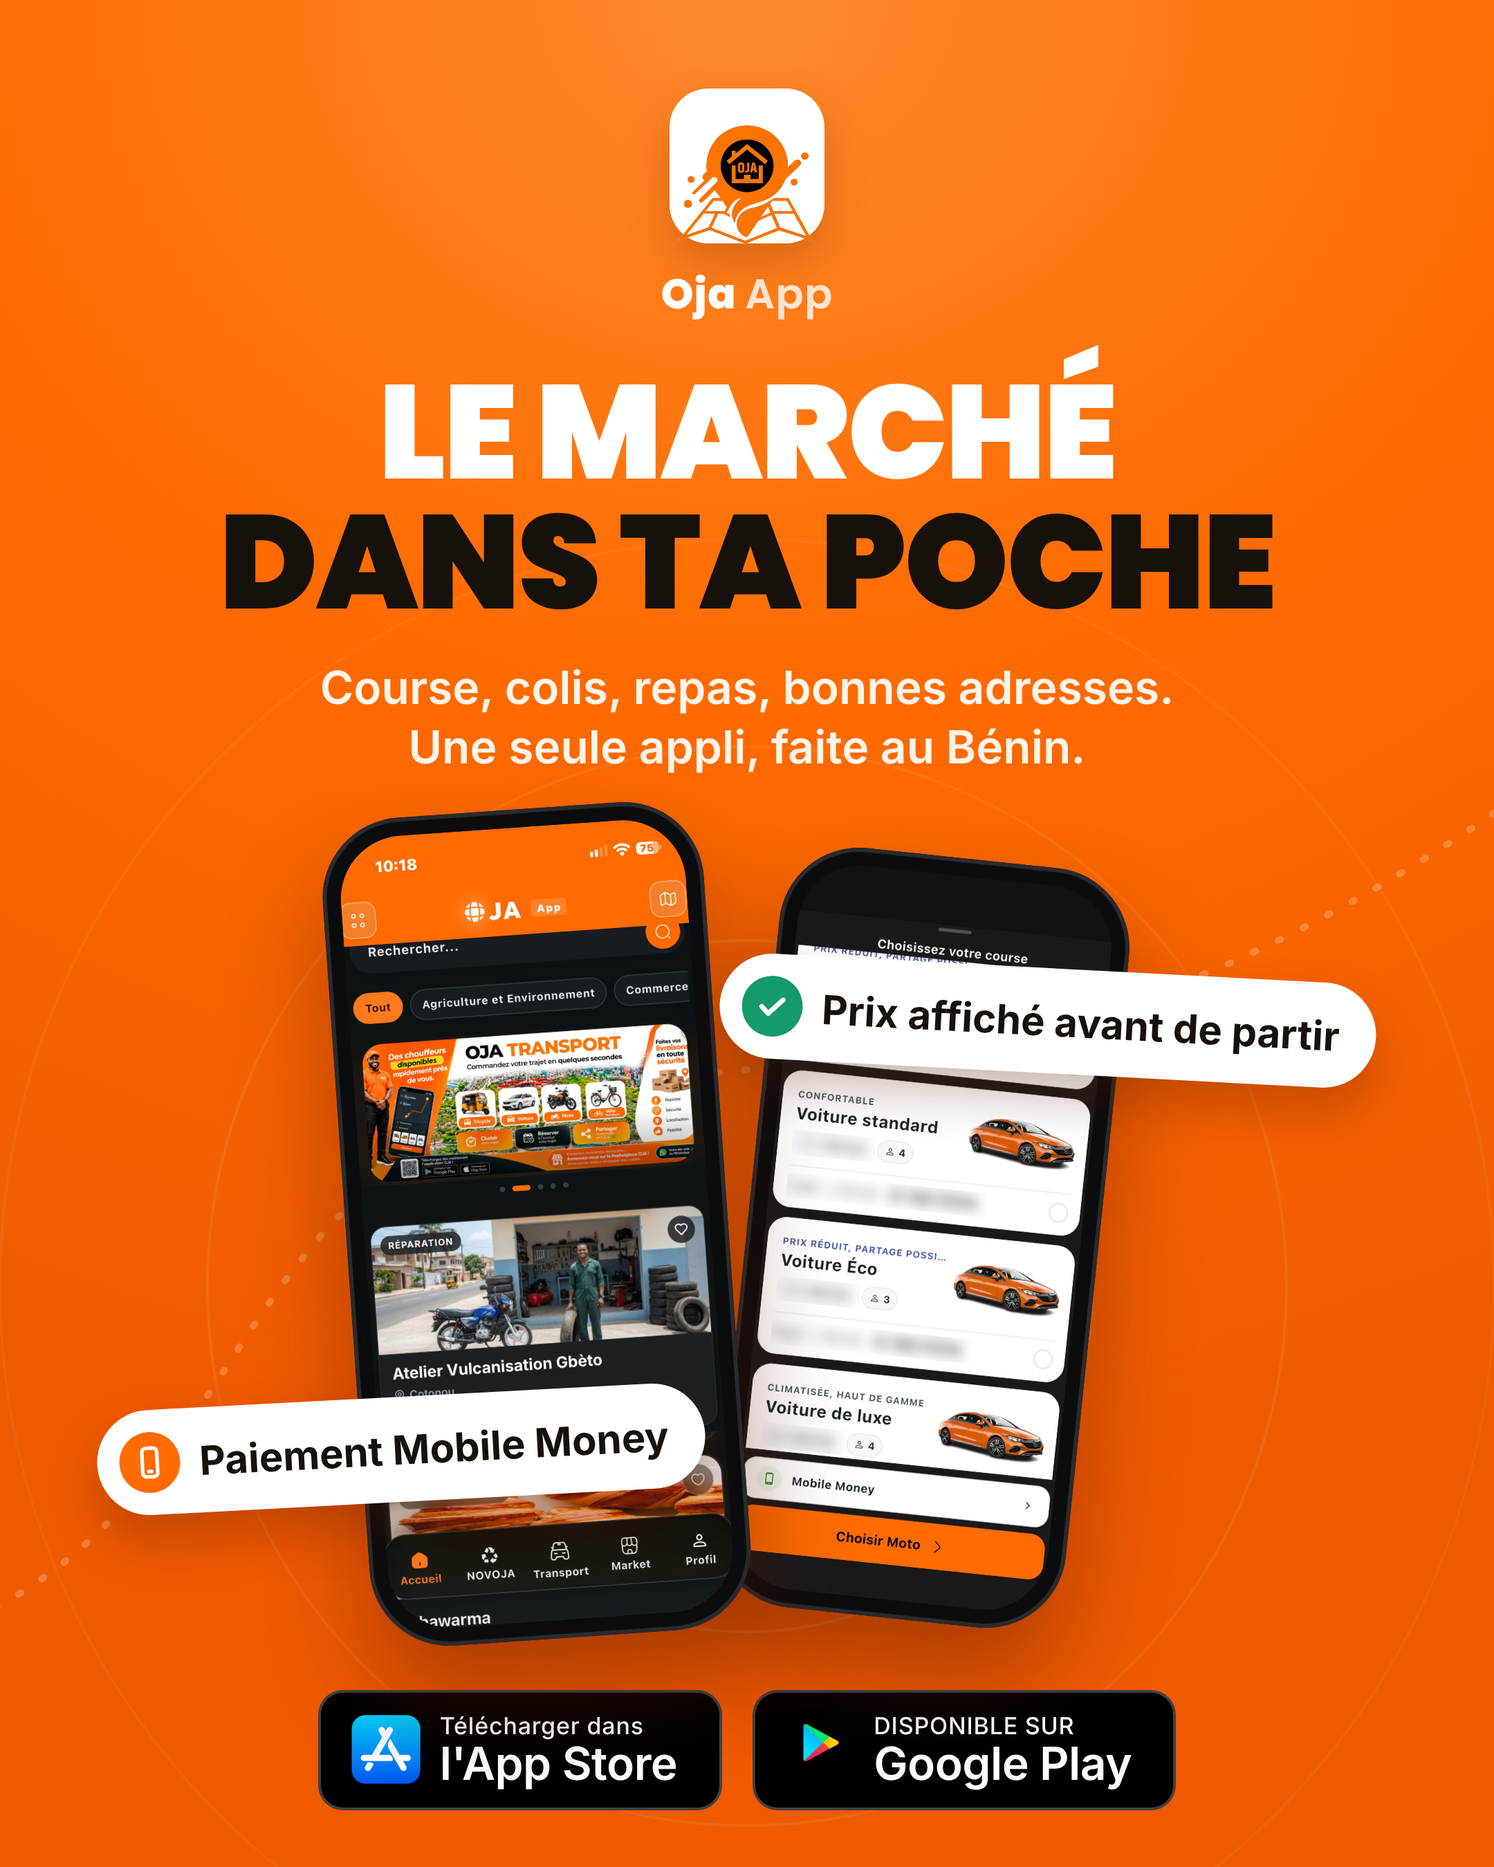
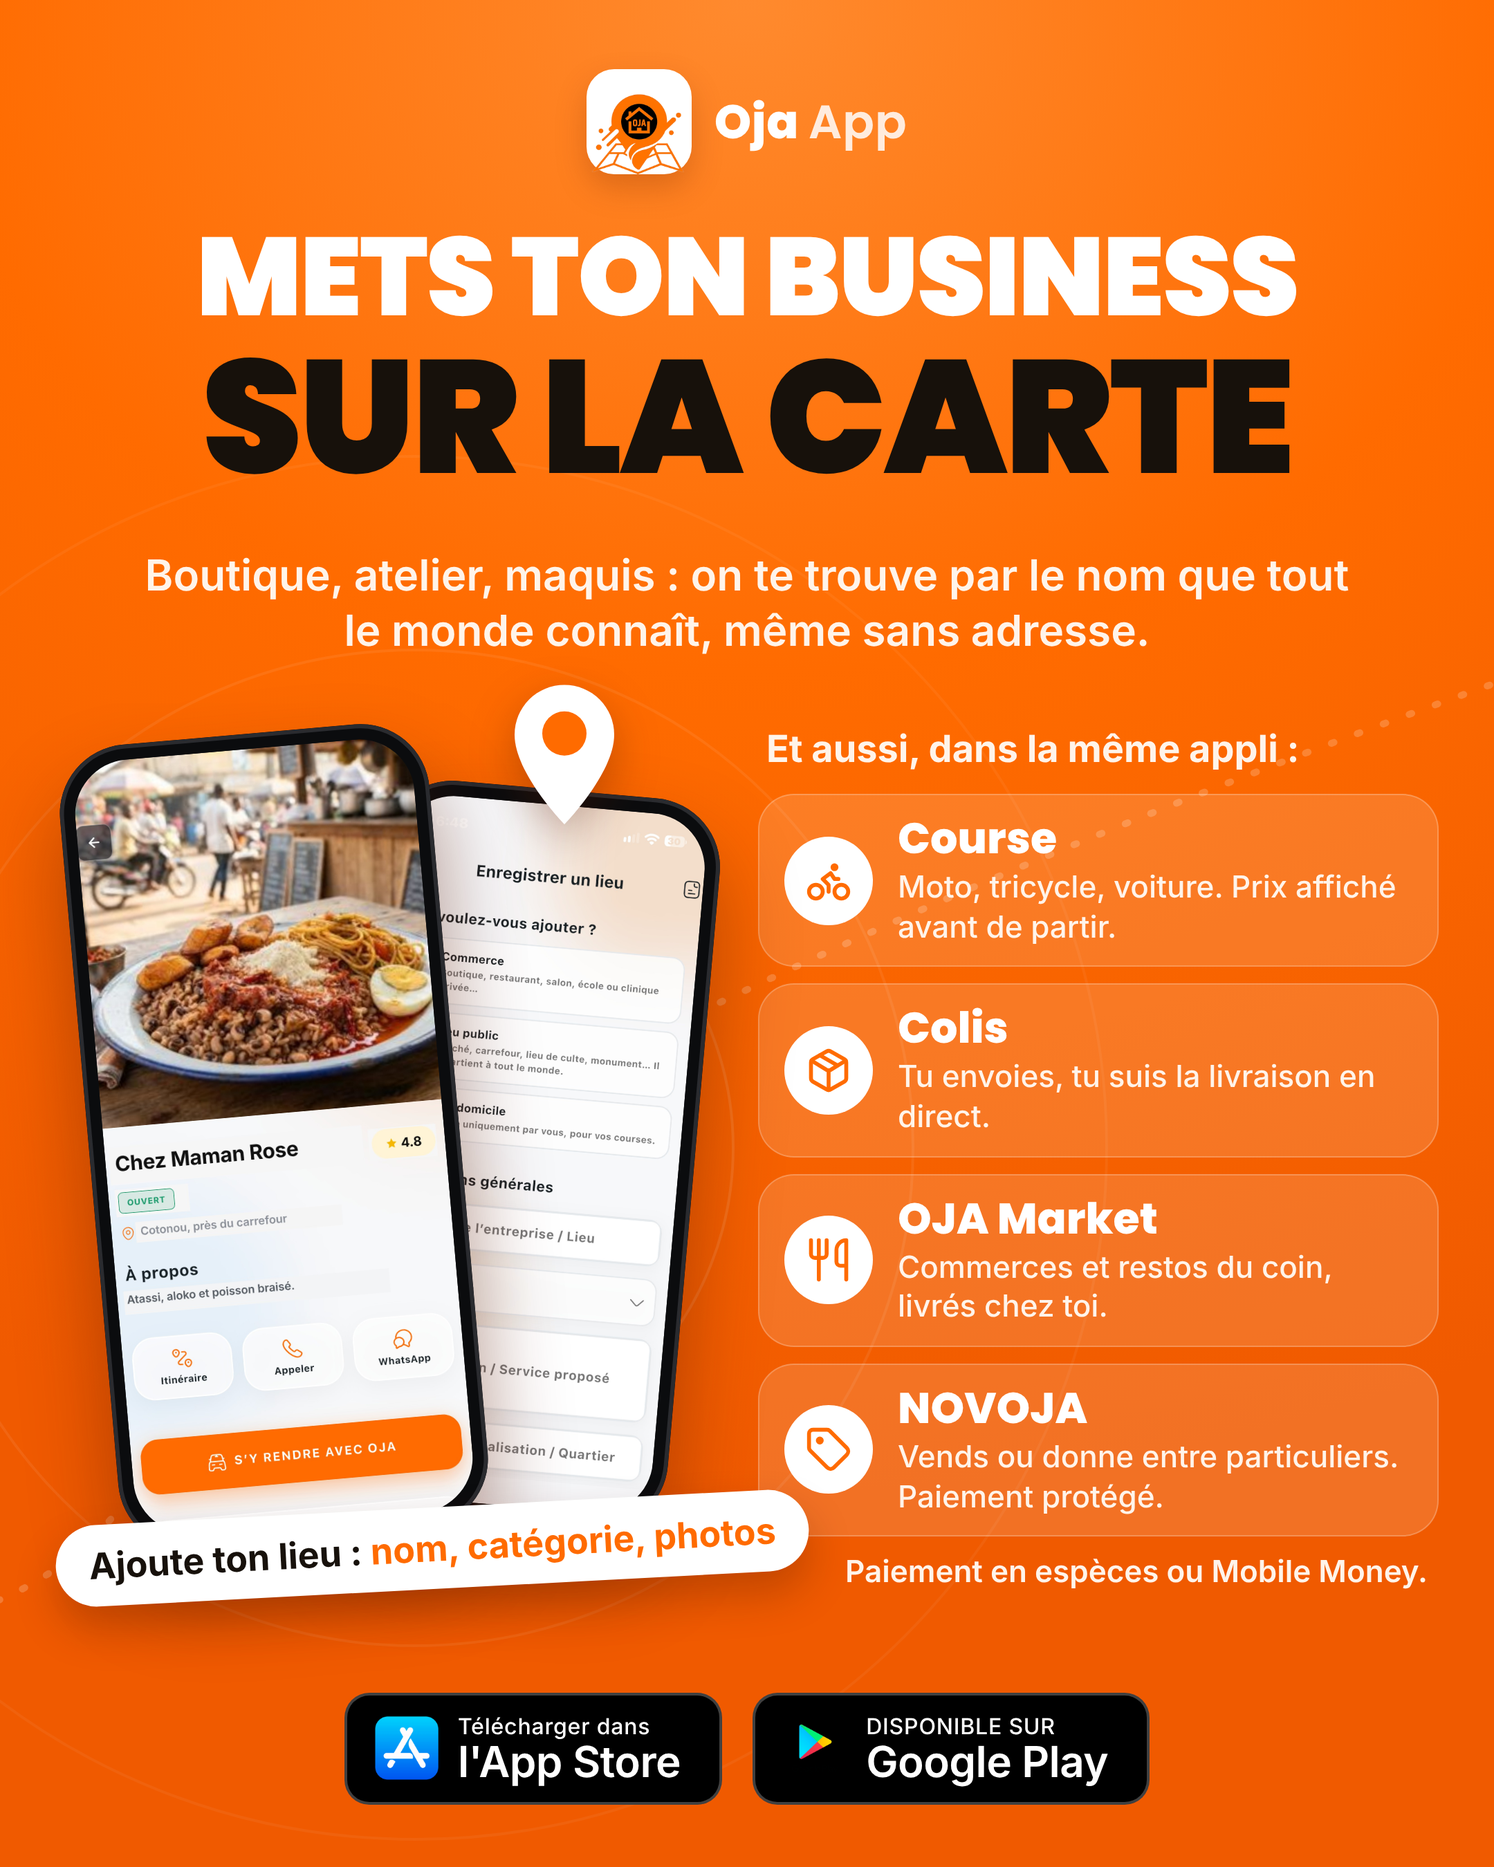
Pub Facebook : la carte en premier (« Mets ton business sur la carte »), puis course, colis, Market et NOVOJA ; consigne ajoutée au kit
Claude-Session: https://claude.ai/code/session_013hXBLf1amJ3CRzgYm5RBGS

diff --git a/motion/pub_facebook.html b/motion/pub_facebook.html
@@ -2,10 +2,13 @@
 <html lang="fr"><head><meta charset="utf-8"><title>OJA — pub Facebook</title>
 <link rel="stylesheet" href="fonts/local.css">
 <style>
-/* Facebook / Instagram ad for Oja App (9 Nov 2026), after the « Griokids » ad Derrick sent: flat brand colour, logo, one big line,
-   the app on real phones, store badges. Made as a real layout, not a generated picture: real logo, real screens of the app
-   (assets/frm/: amounts blurred, test listing replaced by a fictitious one), real type.
-   #feed = 1080 x 1350 (4:5, news feed), #story = 1080 x 1920 (9:16, stories and reels). Built by src/pub_facebook_build.js. */
+/* Facebook / Instagram ad for Oja App, after the « Griokids » ad Derrick sent: flat brand colour, logo, one big line,
+   the app on real phones, store badges. A real layout, not a generated picture: real logo, real screens, real type.
+   9 Nov 2026, Derrick: every feature must be understood, and putting yourself on the map always comes FIRST
+   (also in marketing/kit/09-regles-et-mentions.md). So: the map is the headline and the phones
+   (« Enregistrer un lieu » and a place card, « Chez Maman Rose », fictitious), then the four other services in a list.
+   #feed = 1080 x 1350 (4:5, news feed), #story = 1080 x 1920 (9:16: the same block, below the top 250 px, above the bottom 340 px).
+   Built by src/pub_facebook_build.js. */
 :root { --or: #FF6B00; --or2: #F05A00; --ink: #17110B; --cream: #FFF4EA; }
 * { box-sizing: border-box; margin: 0; padding: 0; }
 html, body { width: 1080px; overflow: hidden; background: var(--or); }
@@ -13,78 +16,77 @@ body { font-family: 'Inter', sans-serif; color: #fff; }
 .ad { position: relative; width: 1080px; height: 1350px; overflow: hidden;
   background: radial-gradient(120% 80% at 50% 0%, #FF8A2E 0%, var(--or) 45%, var(--or2) 100%); }
 body.story .ad { height: 1920px; }
-/* the map behind: rings around a pin and a dotted route, very light */
-svg.bg { position: absolute; inset: 0; width: 100%; height: 100%; }
-.top { position: absolute; left: 0; right: 0; top: 64px; display: flex; flex-direction: column; align-items: center; }
-.icon { width: 112px; height: 112px; border-radius: 28px; background: #fff; display: grid; place-items: center;
-  box-shadow: 0 14px 30px rgba(120, 40, 0, .28); }
+.block { position: absolute; left: 0; top: 10px; width: 1080px; height: 1330px; }
+body.story .block { top: 250px; }
+svg.bg { position: absolute; left: 0; top: 0; width: 1080px; height: 1330px; }
+/* header */
+.brand { position: absolute; top: 40px; left: 0; right: 0; display: flex; justify-content: center; align-items: center; gap: 16px; }
+.icon { width: 76px; height: 76px; border-radius: 20px; background: #fff; display: grid; place-items: center; box-shadow: 0 10px 22px rgba(120, 40, 0, .25); }
 .icon img { width: 118%; height: 118%; object-fit: contain; margin-top: 6%; }
-.name { margin-top: 14px; font: 800 30px 'Poppins'; letter-spacing: .5px; }
-.name span { opacity: .8; font-weight: 600; }
-h1 { margin-top: 30px; text-align: center; font: 900 96px/0.98 'Poppins'; letter-spacing: -1.5px; text-transform: uppercase; }
-h1 .dark { color: var(--ink); display: block; }
-.sub { margin-top: 22px; text-align: center; font: 600 33px/1.3 'Inter'; color: var(--cream); }
-.phones { position: absolute; left: 0; right: 0; }
-.phone { position: absolute; border-radius: 58px; background: #0B0C0E; padding: 13px;
-  box-shadow: 0 40px 70px rgba(90, 25, 0, .45), 0 0 0 3px #2A2B2F inset; }
-.phone img { display: block; width: 100%; height: 100%; object-fit: cover; object-position: top; border-radius: 46px; }
-.chip { position: absolute; display: flex; align-items: center; gap: 14px; background: #fff; color: var(--ink);
-  border-radius: 999px; padding: 16px 26px 16px 16px; font: 700 29px 'Inter'; white-space: nowrap;
-  box-shadow: 0 18px 34px rgba(90, 25, 0, .3); }
-.chip i { width: 44px; height: 44px; border-radius: 50%; display: grid; place-items: center; background: #159A69; flex: none; }
-.chip i.or { background: var(--or); }
-.chip svg { width: 26px; height: 26px; }
-.stores { position: absolute; left: 0; right: 0; display: flex; justify-content: center; gap: 22px; }
-.badge { display: flex; align-items: center; gap: 14px; background: #000; border-radius: 18px; padding: 14px 30px 14px 22px;
-  border: 2px solid rgba(255, 255, 255, .25); }
-.badge img { width: 50px; height: 50px; }
-.badge small { display: block; font: 500 17px 'Inter'; letter-spacing: .4px; }
-.badge b { display: block; font: 600 33px/1.05 'Inter'; letter-spacing: -.3px; }
-/* feed (4:5) */
-.phones { top: 585px; height: 620px; }
-.p1 { left: 250px; top: 0; width: 276px; height: 600px; transform: rotate(-4deg); z-index: 2; }
-.p2 { left: 540px; top: 34px; width: 254px; height: 552px; transform: rotate(6deg); z-index: 1; }
-.c1 { left: 520px; top: 700px; z-index: 3; transform: rotate(3deg); }
-.c2 { left: 70px; top: 1010px; z-index: 3; transform: rotate(-3deg); }
-.stores { top: 1222px; }
-/* story (9:16): same pieces, more air, everything inside the safe area (no text in the top 250 px or the bottom 340 px) */
-body.story .top { top: 250px; }
-body.story h1 { font-size: 104px; }
-body.story .phones { top: 805px; }
-body.story .p1 { left: 225px; width: 300px; height: 652px; }
-body.story .p2 { left: 540px; top: 40px; width: 276px; height: 600px; }
-body.story .c1 { left: 515px; top: 930px; }
-body.story .c2 { left: 60px; top: 1290px; }
-body.story .stores { top: 1488px; }
+.brand b { font: 800 34px 'Poppins'; letter-spacing: .3px; }
+.brand b span { font-weight: 600; opacity: .85; }
+h1 { position: absolute; top: 150px; left: 0; right: 0; text-align: center; font: 900 80px/1 'Poppins'; letter-spacing: -1.2px; text-transform: uppercase; }
+h1 .dark { display: block; color: var(--ink); font-size: 116px; letter-spacing: -2px; margin-top: 4px; }
+.sub { position: absolute; top: 386px; left: 90px; right: 90px; text-align: center; font: 600 31px/1.3 'Inter'; color: var(--cream); }
+/* the map feature: two phones and a pin */
+.phone { position: absolute; border-radius: 50px; background: #0B0C0E; padding: 11px; box-shadow: 0 34px 60px rgba(90, 25, 0, .45), 0 0 0 3px #2A2B2F inset; }
+.phone img { display: block; width: 100%; height: 100%; object-fit: cover; object-position: top; border-radius: 40px; }
+.p1 { left: 64px; top: 520px; width: 268px; height: 583px; transform: rotate(-5deg); z-index: 2; }
+.p2 { left: 258px; top: 560px; width: 244px; height: 530px; transform: rotate(5deg); z-index: 1; }
+.pin { position: absolute; left: 360px; top: 470px; width: 96px; z-index: 3; filter: drop-shadow(0 12px 16px rgba(90, 25, 0, .35)); }
+.tag { position: absolute; left: 40px; top: 1080px; z-index: 3; background: #fff; color: var(--ink); border-radius: 999px; padding: 14px 24px;
+  font: 700 26px 'Inter'; white-space: nowrap; transform: rotate(-3deg); box-shadow: 0 16px 30px rgba(90, 25, 0, .3); }
+.tag em { font-style: normal; color: var(--or); }
+/* the other services */
+.more { position: absolute; left: 548px; top: 515px; width: 492px; }
+.more h2 { font: 700 27px 'Inter'; color: var(--cream); margin: 0 0 16px 6px; }
+.svc { display: flex; align-items: center; gap: 18px; background: rgba(255, 255, 255, .14); border: 1.5px solid rgba(255, 255, 255, .22);
+  border-radius: 26px; padding: 14px 18px; margin-bottom: 12px; }
+.svc i { width: 64px; height: 64px; border-radius: 50%; background: #fff; display: grid; place-items: center; flex: none; }
+.svc svg { width: 34px; height: 34px; stroke: var(--or); fill: none; stroke-width: 2; stroke-linecap: round; stroke-linejoin: round; }
+.svc b { display: block; font: 800 31px/1.1 'Poppins'; }
+.svc span { display: block; margin-top: 4px; font: 500 22px/1.3 'Inter'; color: var(--cream); }
+.pay { margin: 4px 8px 0 0; text-align: right; font: 600 22px 'Inter'; color: var(--cream); }
+/* stores */
+.stores { position: absolute; left: 0; right: 0; top: 1214px; display: flex; justify-content: center; gap: 22px; }
+.badge { display: flex; align-items: center; gap: 14px; background: #000; border-radius: 18px; padding: 12px 28px 12px 20px; border: 2px solid rgba(255, 255, 255, .25); }
+.badge img { width: 46px; height: 46px; }
+.badge small { display: block; font: 500 16px 'Inter'; letter-spacing: .4px; }
+.badge b { display: block; font: 600 31px/1.05 'Inter'; letter-spacing: -.3px; }
 </style></head>
 <body>
-<div class="ad">
-  <svg class="bg" viewBox="0 0 1080 1350" preserveAspectRatio="xMidYMid slice" aria-hidden="true">
+<div class="ad"><div class="block">
+  <svg class="bg" viewBox="0 0 1080 1330" aria-hidden="true">
     <g fill="none" stroke="#fff">
-      <circle cx="540" cy="930" r="250" stroke-opacity=".10" stroke-width="2"/>
-      <circle cx="540" cy="930" r="390" stroke-opacity=".07" stroke-width="2"/>
-      <circle cx="540" cy="930" r="540" stroke-opacity=".05" stroke-width="2"/>
-      <path d="M-40 1180 C 180 1090, 160 860, 380 800 S 760 820, 1120 560" stroke-opacity=".22" stroke-width="5" stroke-dasharray="2 18" stroke-linecap="round"/>
+      <circle cx="300" cy="820" r="230" stroke-opacity=".10" stroke-width="2"/>
+      <circle cx="300" cy="820" r="360" stroke-opacity=".07" stroke-width="2"/>
+      <circle cx="300" cy="820" r="500" stroke-opacity=".05" stroke-width="2"/>
+      <path d="M-40 1160 C 160 1110, 120 900, 300 820 S 640 640, 1120 470" stroke-opacity=".2" stroke-width="5" stroke-dasharray="2 18" stroke-linecap="round"/>
     </g>
   </svg>
-  <div class="top">
-    <div class="icon"><img src="../video1/assets/logo-oja-carte.png" alt=""></div>
-    <div class="name">Oja <span>App</span></div>
-    <h1>Le marché<span class="dark">dans ta poche</span></h1>
-    <p class="sub">Course, colis, repas, bonnes adresses.<br>Une seule appli, faite au Bénin.</p>
+  <div class="brand"><div class="icon"><img src="../video1/assets/logo-oja-carte.png" alt=""></div><b>Oja <span>App</span></b></div>
+  <h1>Mets ton business<span class="dark">sur la carte</span></h1>
+  <p class="sub">Boutique, atelier, maquis : on te trouve par le nom que tout le monde connaît, même sans adresse.</p>
+  <svg class="pin" viewBox="0 0 24 30"><path d="M12 29s-9-9.2-9-16.2A9 9 0 0 1 21 12.8C21 19.8 12 29 12 29z" fill="#fff"/><circle cx="12" cy="12.6" r="4" fill="#FF6B00"/></svg>
+  <div class="phone p2"><img src="../video3/assets/app/ajout.jpg" alt=""></div>
+  <div class="phone p1"><img src="../video3/assets/app/fiche.jpg" alt=""></div>
+  <div class="tag">Ajoute ton lieu : <em>nom, catégorie, photos</em></div>
+  <div class="more">
+    <h2>Et aussi, dans la même appli :</h2>
+    <div class="svc"><i><svg viewBox="0 0 24 24"><circle cx="5.5" cy="17.5" r="3.5"/><circle cx="18.5" cy="17.5" r="3.5"/><path d="M15 6a1 1 0 1 0 0-2 1 1 0 0 0 0 2zm-3 11.5V14l-3-3 4-3 2 3h2"/></svg></i>
+      <div><b>Course</b><span>Moto, tricycle, voiture. Prix affiché avant de partir.</span></div></div>
+    <div class="svc"><i><svg viewBox="0 0 24 24"><path d="M11 21.73a2 2 0 0 0 2 0l7-4A2 2 0 0 0 21 16V8a2 2 0 0 0-1-1.73l-7-4a2 2 0 0 0-2 0l-7 4A2 2 0 0 0 3 8v8a2 2 0 0 0 1 1.73z"/><path d="M12 22V12"/><path d="m3.3 7 7.703 4.734a2 2 0 0 0 1.994 0L20.7 7"/><path d="m7.5 4.27 9 5.15"/></svg></i>
+      <div><b>Colis</b><span>Tu envoies, tu suis la livraison en direct.</span></div></div>
+    <div class="svc"><i><svg viewBox="0 0 24 24"><path d="M3 2v7c0 1.1.9 2 2 2h4a2 2 0 0 0 2-2V2"/><path d="M7 2v20"/><path d="M21 15V2a5 5 0 0 0-5 5v6c0 1.1.9 2 2 2h3Zm0 0v7"/></svg></i>
+      <div><b>OJA Market</b><span>Commerces et restos du coin, livrés chez toi.</span></div></div>
+    <div class="svc"><i><svg viewBox="0 0 24 24"><path d="M12.586 2.586A2 2 0 0 0 11.172 2H4a2 2 0 0 0-2 2v7.172a2 2 0 0 0 .586 1.414l8.704 8.704a2.426 2.426 0 0 0 3.42 0l6.58-6.58a2.426 2.426 0 0 0 0-3.42z"/><circle cx="7.5" cy="7.5" r="1"/></svg></i>
+      <div><b>NOVOJA</b><span>Vends ou donne entre particuliers. Paiement protégé.</span></div></div>
+    <p class="pay">Paiement en espèces ou Mobile Money.</p>
   </div>
-  <div class="phones">
-    <div class="phone p2"><img src="assets/frm/course_m.jpg" alt=""></div>
-    <div class="phone p1"><img src="assets/frm/accueil_m.jpg" alt=""></div>
-  </div>
-  <div class="chip c1"><i><svg viewBox="0 0 24 24" fill="none" stroke="#fff" stroke-width="3.2" stroke-linecap="round" stroke-linejoin="round"><path d="M5 12.5l4.5 4.5L19 7.5"/></svg></i>Prix affiché avant de partir</div>
-  <div class="chip c2"><i class="or"><svg viewBox="0 0 24 24" fill="none" stroke="#fff" stroke-width="2.4" stroke-linecap="round" stroke-linejoin="round"><rect x="7" y="2.5" width="10" height="19" rx="2.5"/><path d="M11 18h2"/></svg></i>Paiement Mobile Money</div>
   <div class="stores">
     <div class="badge"><img src="../video1/assets/store-app-store.png" alt=""><div><small>Télécharger dans</small><b>l'App Store</b></div></div>
     <div class="badge"><img src="../video1/assets/store-google-play.png" alt=""><div><small>DISPONIBLE SUR</small><b>Google Play</b></div></div>
   </div>
-</div>
-<script>
-if (location.hash === '#story') { document.body.classList.add('story'); document.querySelector('svg.bg').setAttribute('viewBox', '0 -150 1080 1920'); }
-</script>
+</div></div>
+<script>if (location.hash === '#story') document.body.classList.add('story');</script>
 </body></html>

diff --git a/motion/README.md b/motion/README.md
@@ -1089,26 +1089,33 @@ La musique est un groove afro-house à 104 BPM, avec un tic-tac au début et des
 
 **Rendu :** `src/journee_collage_render.sh` (depuis `motion/`) produit les deux versions.
 
-## OJA — Pub Facebook / Instagram « Le marché dans ta poche » (image)
+## OJA — Pub Facebook / Instagram « Mets ton business sur la carte » (image)
 
 Image publicitaire pour lancer Oja App sur Facebook et Instagram. Elle s'inspire de la pub « Griokids » envoyée par Derrick : couleur de marque en aplat, logo, une grande phrase, l'appli sur de vrais téléphones et les logos des stores.
 
-C'est une vraie mise en page, pas une image générée par IA :
-- le vrai logo ;
-- de vrais écrans de l'appli : `assets/frm/accueil_m.jpg` (fiche fictive) et `assets/frm/course_m.jpg` (prix et durées floutés) ;
-- en fond, les cercles d'une épingle et une route en pointillés, très légers.
+C'est une vraie mise en page, pas une image générée par IA : vrai logo, vrais écrans de l'appli, vraie typographie.
 
-**Textes :**
-- « Le marché dans ta poche » ;
-- « Course, colis, repas, bonnes adresses. Une seule appli, faite au Bénin. » ;
-- deux pastilles : « Prix affiché avant de partir » et « Paiement Mobile Money » ;
-- les logos de l'App Store et de Google Play.
+Consigne de Derrick (9 novembre 2026) : on doit comprendre toutes les fonctions, et **se mettre sur la carte passe toujours en premier**.
 
-Aucun montant, aucun concurrent, pas de « gratuit ».
+**Contenu de l'image :**
+- **En premier, la carte :**
+  - le titre « Mets ton business sur la carte » ;
+  - la phrase « Boutique, atelier, maquis : on te trouve par le nom que tout le monde connaît, même sans adresse. » ;
+  - deux téléphones : la fiche d'un lieu fictif (« Chez Maman Rose », `video3/assets/app/fiche.jpg`) et l'écran « Enregistrer un lieu » (`ajout.jpg`) ;
+  - une épingle et la pastille « Ajoute ton lieu : nom, catégorie, photos ».
+- **Puis, sous « Et aussi, dans la même appli » :**
+  - Course : moto, tricycle, voiture, prix affiché avant de partir ;
+  - Colis : suivi en direct ;
+  - OJA Market : commerces et restos livrés ;
+  - NOVOJA : vendre ou donner, paiement protégé ;
+  - « Paiement en espèces ou Mobile Money ».
+- **En bas,** les logos de l'App Store et de Google Play.
+
+Aucun montant, aucun concurrent, pas de « gratuit ». « C'est mon commerce » (revendiquer sa fiche) n'est pas montré : cette fonction n'est pas encore sortie.
 
 **Fichiers :** `node src/pub_facebook_build.js` (depuis `motion/`) produit, dans `pubs/` :
 - `OJA_Pub_Facebook_1080x1350.png` : fil d'actualité, 4:5 ;
-- `OJA_Pub_Facebook_1080x1920.png` : stories et reels, 9:16. Rien d'écrit dans les 250 px du haut ni les 340 px du bas ;
+- `OJA_Pub_Facebook_1080x1920.png` : stories et reels, 9:16. C'est le même bloc, sous les 250 px du haut et au-dessus des 340 px du bas ;
 - les mêmes en double définition : `_2160x2700.png` et `_2160x3840.png`.
 
 La page source est `pub_facebook.html` (`#feed` ou `#story`).

diff --git a/marketing/kit/09-regles-et-mentions.md b/marketing/kit/09-regles-et-mentions.md
@@ -45,6 +45,7 @@
 
 ## Fonction mise en avant en premier
 - **Mettre son entreprise sur la carte** : boutique, atelier, restaurant, petit business. Au Bénin, se faire trouver sans adresse précise est un casse-tête ; sur OJA, on ajoute son lieu (nom, catégorie, point exact, photos) et on le trouve par le nom que les gens lui donnent. « C'est mon commerce » (revendiquer sa fiche) arrive avec la prochaine version : ne pas le promouvoir avant.
+- Consigne de Derrick (9 novembre 2026) : dans chaque pub ou visuel qui présente l'appli, cette fonction passe **toujours en premier** (titre et image principale). Les autres services viennent ensuite, pour que l'on comprenne toutes les fonctions.
 
 ## Commission chauffeurs (chiffres donnés par Derrick, 5 novembre 2026)
 - **Pass illimité** : 0 % de commission pendant 24 h, 7 jours ou 1 mois.
